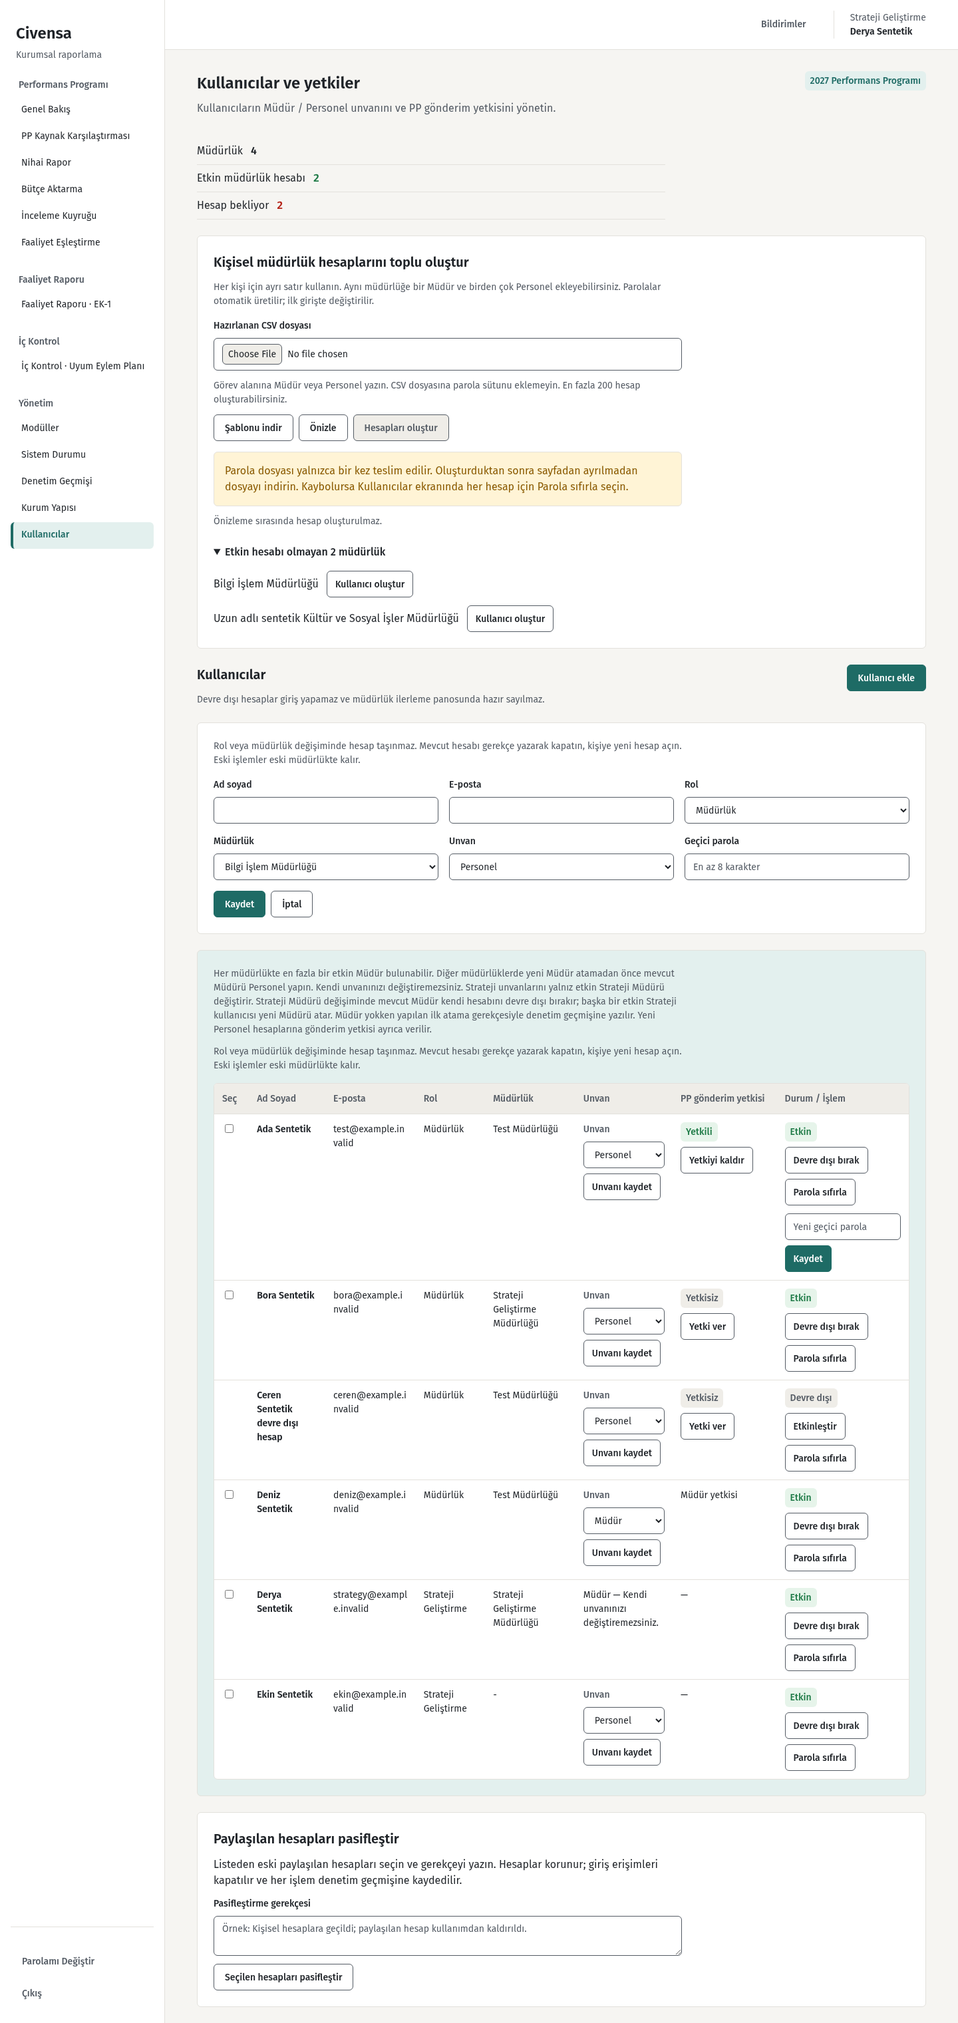
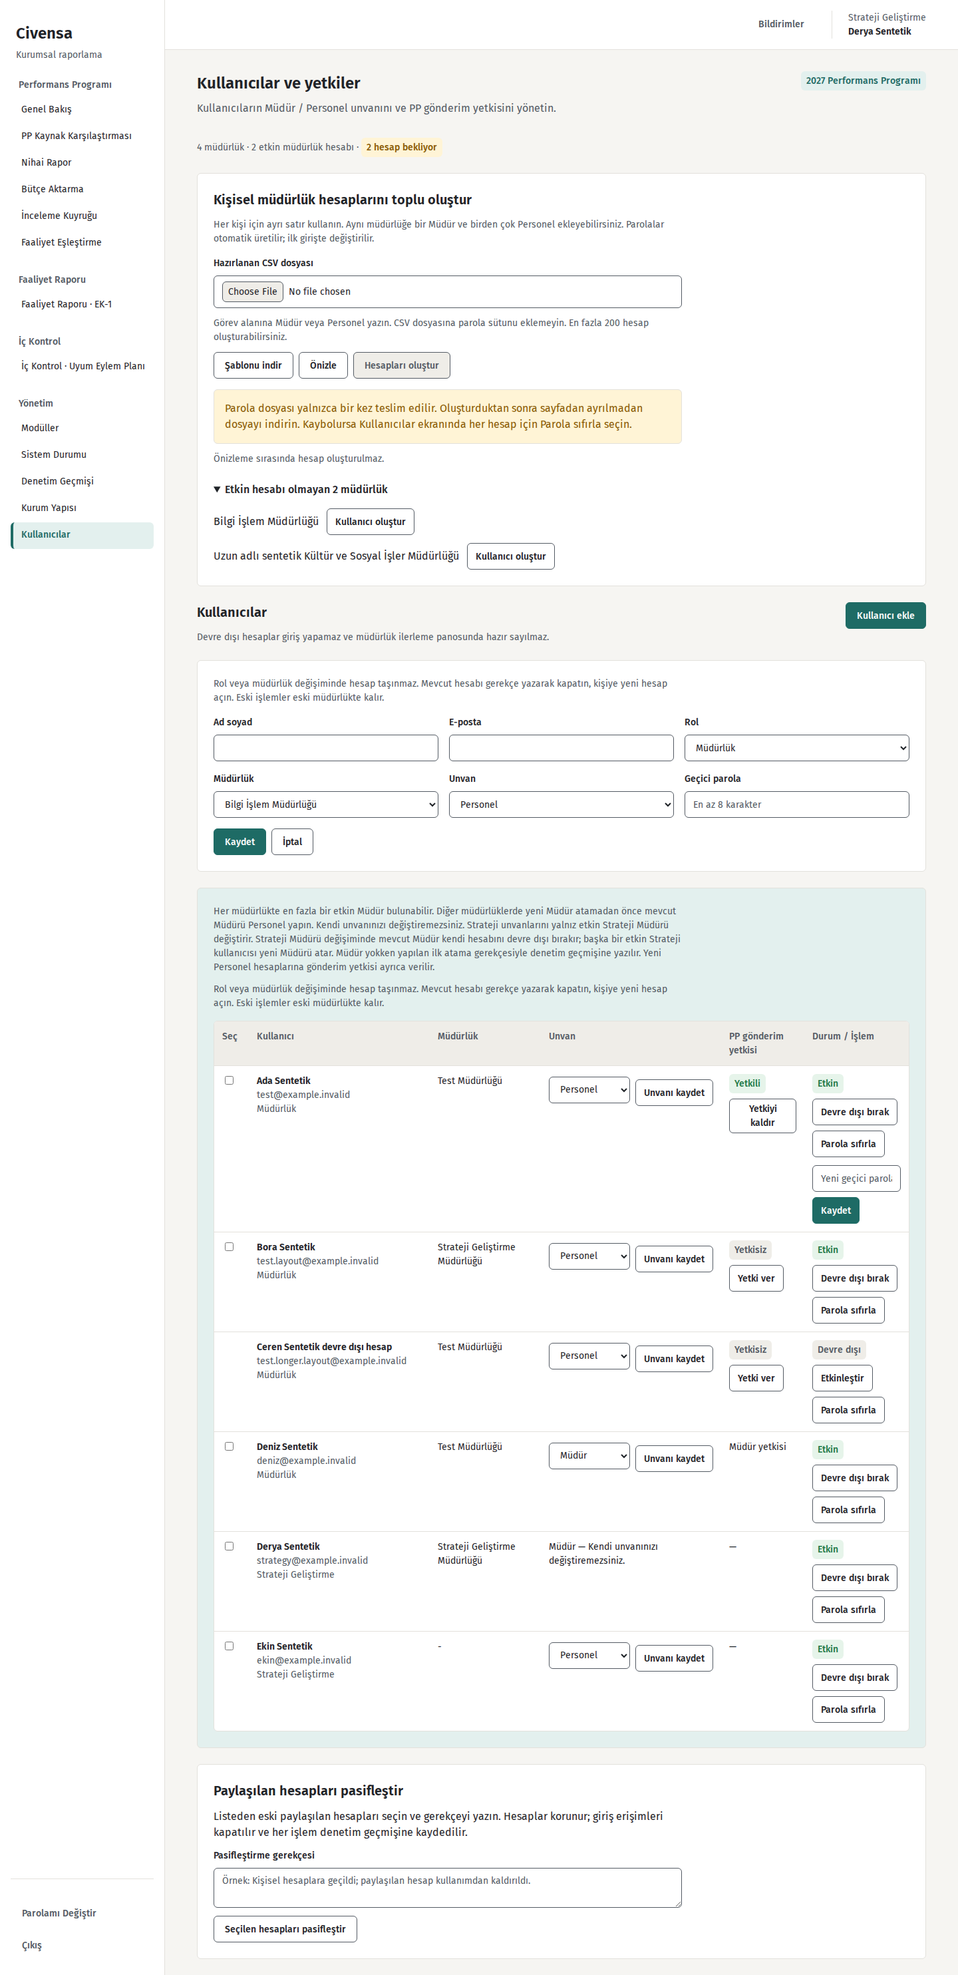
[WIP] Update users table to simplify columns (#205)
* Initial plan

* CIV-134 sadeleştirilmiş kullanıcı tablosu

* CIV-134 compact user account summary

* CIV-134 refresh user summary screenshots

* Run CI after ready for review (lead)

---------

diff --git a/app/static/design/users.css b/app/static/design/users.css
@@ -10,10 +10,7 @@
 .users-page .muted { color: var(--text-secondary); font-size: var(--text-sm); }
 .users-page .ok { color: var(--success) !important; }
 .users-page .bad { color: var(--danger) !important; }
-.users-page .users-summary { display: grid; grid-template-columns: minmax(0, 1fr); gap: 0; max-width: 44rem; }
-.users-page .users-summary .card { display: flex; align-items: baseline; gap: var(--space-3); padding: var(--space-2) 0; border: 0; border-bottom: 1px solid var(--border); border-radius: 0; background: transparent; box-shadow: none; }
-.users-page .users-summary :is(span, b) { margin: 0; color: var(--text); font-size: var(--text-base); }
-.users-page .users-summary b { font-variant-numeric: tabular-nums; }
+.users-page .users-summary { max-width: 44rem; margin: 0; }
 .users-page :is(.users-panel, .user-form) { min-width: 0; margin: 0; padding: var(--space-6); border: 1px solid var(--border); border-radius: var(--radius); background: var(--surface); box-shadow: none; }
 .users-page .info-panel { padding: var(--space-4); border: 1px solid var(--border); border-radius: var(--radius); background: var(--accent-soft); }
 .users-page .users-warning { margin-top: var(--space-4); color: var(--warning); background: var(--warning-bg); }
@@ -44,20 +41,24 @@
 .users-page .missing-departments b { font-size: var(--text-base); font-weight: var(--font-regular); }
 .users-page .table-wrap { width: 100%; max-width: 100%; overflow-x: auto; border: 1px solid var(--border); border-radius: var(--radius); background: var(--surface); }
 .users-page .users-table { margin-top: var(--space-4); }
-.users-page table { width: 100%; min-width: 1040px; margin: 0; border-collapse: collapse; table-layout: fixed; }
+.users-page table { width: 100%; min-width: 0; margin: 0; border-collapse: collapse; table-layout: fixed; }
 .users-page :is(th, td) { padding: var(--space-3); border-bottom: 1px solid var(--border); font-size: var(--text-sm); text-align: left; vertical-align: top; }
 .users-page th { color: var(--text-secondary); background: var(--surface-muted); font-weight: var(--font-medium); }
 .users-page .users-table th:nth-child(1) { width: 5%; }
-.users-page .users-table th:nth-child(2) { width: 11%; }
-.users-page .users-table th:nth-child(3) { width: 13%; }
-.users-page .users-table th:nth-child(4) { width: 10%; }
-.users-page .users-table th:nth-child(5) { width: 13%; }
-.users-page .users-table th:nth-child(6) { width: 14%; }
-.users-page .users-table th:nth-child(7) { width: 15%; }
-.users-page .users-table th:nth-child(8) { width: 19%; }
+.users-page .users-table th:nth-child(2) { width: 26%; }
+.users-page .users-table th:nth-child(3) { width: 16%; }
+.users-page .users-table th:nth-child(4) { width: 26%; }
+.users-page .users-table th:nth-child(5) { width: 12%; }
+.users-page .users-table th:nth-child(6) { width: 15%; }
+.users-page .user-identity :is(.user-email, .user-role) { display: block; }
+.users-page .user-email { overflow-wrap: break-word; }
+.users-page .user-position-controls { display: flex; align-items: center; flex-wrap: wrap; gap: var(--space-2); }
+.users-page .user-position-controls label { position: relative; flex: 1 1 7rem; }
+.users-page .user-position-controls .button { flex: 0 0 auto; }
 .users-page tbody tr:last-child td { border-bottom: 0; }
 .users-page .status { display: inline-block; padding: var(--space-1) var(--space-2); border-radius: var(--radius); color: var(--text-secondary); background: var(--surface-muted); font-size: var(--text-sm); font-weight: var(--font-medium); }
 .users-page .status.approved { color: var(--success); background: var(--success-bg); }
+.users-page .status.warning { color: var(--warning); background: var(--warning-bg); }
 .users-page :is(.status.returned, .status.draft) { color: var(--text-secondary); background: var(--surface-muted); }
 .users-page .rowbuttons { flex-direction: column; margin-top: var(--space-2); }
 .users-page :is(.save-user-position, .toggle-submit-authorization) { margin-top: var(--space-2); }
@@ -73,4 +74,7 @@
 }
 @media (max-width: 700px) {
   .users-page :is(.users-panel, .user-form) { padding: var(--space-4); }
+}
+@media (max-width: 1279px) {
+  .users-page table { min-width: 1000px; }
 }

diff --git a/app/templates/users.html b/app/templates/users.html
@@ -4,20 +4,7 @@
 {% block content %}
   <link rel="stylesheet" href="/static/design/users.css">
   <div class="users-page">
-    <div class="cards strategy-cards users-summary">
-      <div class="card">
-        <span>Müdürlük</span>
-        <b>{{ departments|length }}</b>
-      </div>
-      <div class="card">
-        <span>Etkin müdürlük hesabı</span>
-        <b class="ok">{{ department_account_count }}</b>
-      </div>
-      <div class="card">
-        <span>Hesap bekliyor</span>
-        <b class="{{ 'bad' if missing_departments else 'ok' }}">{{ missing_departments|length }}</b>
-      </div>
-    </div>
+    <p class="muted users-summary">{{ departments|length }} müdürlük · {{ department_account_count }} etkin müdürlük hesabı · {% if missing_departments %}<span class="status warning">{{ missing_departments|length }} hesap bekliyor</span>{% else %}{{ missing_departments|length }} hesap bekliyor{% endif %}</p>
     <section class="users-panel">
       <h2>Kişisel müdürlük hesaplarını toplu oluştur</h2>
       <p class="muted">Her kişi için ayrı satır kullanın. Aynı müdürlüğe bir Müdür ve birden çok Personel ekleyebilirsiniz. Parolalar otomatik üretilir; ilk girişte değiştirilir.</p>
@@ -99,9 +86,7 @@
           <thead>
             <tr>
               <th>Seç</th>
-              <th>Ad Soyad</th>
-              <th>E-posta</th>
-              <th>Rol</th>
+              <th>Kullanıcı</th>
               <th>Müdürlük</th>
               <th>Unvan</th>
               <th>PP gönderim yetkisi</th>
@@ -116,11 +101,11 @@
                     <input type="checkbox" class="retire-user" value="{{ u.id }}" aria-label="{{ u.full_name }} hesabını seç">
                   {% endif %}
                 </td>
-                <td>
+                <td class="user-identity">
                   <b>{{ u.full_name }}</b>
+                  <span class="user-email muted">{{ u.email }}</span>
+                  <span class="user-role muted">{{ 'Strateji Geliştirme' if u.role=='strategy' else 'Müdürlük' }}</span>
                 </td>
-                <td>{{ u.email }}</td>
-                <td>{{ 'Strateji Geliştirme' if u.role=='strategy' else 'Müdürlük' }}</td>
                 <td>
                   {% if u.department_id %}
                     {% for d in departments %}
@@ -136,14 +121,16 @@
                   {% if u.id == user.id %}
                     {{ 'Müdür' if u.position == 'director' else 'Personel' }} — Kendi unvanınızı değiştiremezsiniz.
                   {% else %}
-                    <label>
-                      <span class="muted">Unvan</span>
-                      <select class="user-position" aria-label="{{ u.full_name }} unvanı">
-                        <option value="staff" {{ 'selected' if u.position == 'staff' }}>Personel</option>
-                        <option value="director" {{ 'selected' if u.position == 'director' }}>Müdür</option>
-                      </select>
-                    </label>
-                    <button type="button" class="button small save-user-position" data-user="{{ u.id }}">Unvanı kaydet</button>
+                    <div class="user-position-controls">
+                      <label>
+                        <span class="sr-only">Unvan</span>
+                        <select class="user-position" aria-label="{{ u.full_name }} unvanı">
+                          <option value="staff" {{ 'selected' if u.position == 'staff' }}>Personel</option>
+                          <option value="director" {{ 'selected' if u.position == 'director' }}>Müdür</option>
+                        </select>
+                      </label>
+                      <button type="button" class="button small save-user-position" data-user="{{ u.id }}">Unvanı kaydet</button>
+                    </div>
                   {% endif %}
                 </td>
                 <td>

diff --git a/tests/test_users_design.py b/tests/test_users_design.py
@@ -4,6 +4,7 @@ from hashlib import sha256
 from html.parser import HTMLParser
 import os
 from pathlib import Path
+import re
 from urllib.parse import urlsplit
 
 import pytest
@@ -53,20 +54,28 @@ class Contract(HTMLParser):
         self.controls, self.hooks, self.headers, self.options = [], [], [], []
         self.words = Counter()
         self.capture = None
+        self.summary_depth = 0
+        self.summary_parts = []
+        self.summary = ''
         self.feed(html)
 
     def handle_starttag(self, tag, attrs):
         attrs = dict(attrs)
+        classes = set(attrs.get('class', '').split())
         if tag == 'main':
             self.main = True
         if not self.main:
             return
+        if self.summary_depth:
+            self.summary_depth += 1
+        elif 'users-summary' in classes or {'cards', 'strategy-cards'} <= classes:
+            self.summary_depth = 1
         if tag in {'input', 'select', 'option', 'textarea', 'button', 'a', 'form'}:
             values = {k: v for k, v in attrs.items() if k not in {'class', 'style'}}
             if values.get('name') == 'csrf_token':
                 values['value'] = '<csrf>'
             self.controls.append((tag, tuple(sorted(values.items()))))
-        classes = tuple(sorted(set(attrs.get('class', '').split()) & JS_CLASSES))
+        classes = tuple(sorted(classes & JS_CLASSES))
         data = tuple(sorted((k, v) for k, v in attrs.items() if k.startswith('data-')))
         if attrs.get('id') or classes or data:
             self.hooks.append((tag, attrs.get('id'), classes, data, 'hidden' in attrs))
@@ -78,10 +87,14 @@ class Contract(HTMLParser):
             return
         if self.capture is not None:
             self.capture[2] += data
+        if self.capture and self.capture[0] == 'th':
+            return
+        if self.summary_depth:
+            self.summary_parts.append(data)
+            return
         # Header copy is deliberately NOT sentence-cased.
         text = ' '.join(data.split())
-        if not (self.capture and self.capture[0] == 'th'):
-            text = TEXT_CHANGES.get(text, text)
+        text = TEXT_CHANGES.get(text, text)
         text = text.replace('Kullanıcılar ve Yetkiler', 'Kullanıcılar ve yetkiler')
         self.words.update(text.split())
 
@@ -91,8 +104,32 @@ class Contract(HTMLParser):
             value = (attrs, ' '.join(text.split()))
             (self.headers if kind == 'th' else self.options).append(value)
             self.capture = None
+        if self.summary_depth:
+            self.summary_depth -= 1
+            if not self.summary_depth:
+                self.summary = ' '.join(' '.join(self.summary_parts).split())
         if tag == 'main':
             self.main = False
+
+
+def normalized_summary(summary):
+    match = re.fullmatch(
+        r'Müdürlük (\d+) Etkin müdürlük hesabı (\d+) Hesap bekliyor (\d+)', summary)
+    if not match:
+        return summary
+    departments, accounts, missing = match.groups()
+    return (f'{departments} müdürlük · {accounts} etkin müdürlük hesabı · '
+            f'{missing} hesap bekliyor')
+
+
+def normalized_headers(headers):
+    combined = {'Ad Soyad', 'E-posta', 'Rol'}
+    result = [header for header in headers if header[1] not in combined]
+    index = next((i for i, header in enumerate(headers) if header[1] in combined), None)
+    if index is not None:
+        result.insert(sum(header[1] not in combined for header in headers[:index]),
+                      ((), 'Kullanıcı'))
+    return result
 
 
 @pytest.fixture
@@ -104,10 +141,10 @@ def users_data(db, sample, accounts):
                                'Uzun adlı sentetik Kültür ve Sosyal İşler Müdürlüğü']]
     db.add_all(missing)
     db.add_all([
-        User(email='bora@example.invalid', full_name='Bora Sentetik',
+        User(email='test.layout@example.invalid', full_name='Bora Sentetik',
              role='department', position='staff', can_submit=False,
              department_id=sample['strategy'].department_id, password_hash='unused'),
-        User(email='ceren@example.invalid', full_name='Ceren Sentetik devre dışı hesap',
+        User(email='test.longer.layout@example.invalid', full_name='Ceren Sentetik devre dışı hesap',
              role='department', position='staff', is_active=False, can_submit=False,
              department_id=sample['department'].id, password_hash='unused'),
         User(email='deniz@example.invalid', full_name='Deniz Sentetik',
@@ -136,7 +173,8 @@ def test_frozen_controls_hooks_copy_options_and_headers(accounts, users_data, db
     assert Counter(actual.controls) == Counter(expected.controls)
     assert Counter(actual.hooks) == Counter(expected.hooks)
     assert actual.options == expected.options
-    assert actual.headers == expected.headers
+    assert actual.headers == normalized_headers(expected.headers)
+    assert actual.summary == normalized_summary(expected.summary)
     assert actual.words == expected.words
     assert JS_IDS <= {item[1] for item in actual.hooks}
     assert JS_CLASSES - ({'create-department-user'} if not missing else set()) <= {
@@ -160,6 +198,7 @@ def test_browser_layout_contrast_and_existing_controls(browser, accounts, users_
             department.is_active = False
         db.commit()
     client = accounts[0]()
+    summary_context = client.get('/users').context
     errors, writes = [], []
     with browser.new_context(viewport={'width': width, 'height': 1000},
                              locale='tr-TR', timezone_id='Europe/Istanbul') as context:
@@ -199,10 +238,19 @@ def test_browser_layout_contrast_and_existing_controls(browser, accounts, users_
         if phase == 'after':
             root = page.locator('.users-page')
             assert page.evaluate('document.documentElement.scrollWidth === innerWidth')
+            expect(page.locator('.users-table th')).to_have_count(6)
             assert root.locator('*').evaluate_all("els => els.every(el => getComputedStyle(el).textTransform !== 'uppercase')")
-            assert root.locator('.users-summary').evaluate('el => el.getBoundingClientRect().width <= 704')
-            for item in root.locator('.users-summary .card').all():
-                assert item.evaluate('el => Math.abs(el.firstElementChild.getBoundingClientRect().y - el.lastElementChild.getBoundingClientRect().y) < 3')
+            summary = root.locator('.users-summary')
+            assert summary.evaluate('el => el.getBoundingClientRect().width <= 704')
+            expect(summary).to_have_text(
+                f'{len(summary_context["departments"])} müdürlük · '
+                f'{summary_context["department_account_count"]} etkin müdürlük hesabı · '
+                f'{len(summary_context["missing_departments"])} hesap bekliyor')
+            expect(summary.locator('.status.warning')).to_have_count(
+                1 if summary_context['missing_departments'] else 0)
+            if summary_context['missing_departments']:
+                expect(summary.locator('.status.warning')).to_have_text(
+                    f'{len(summary_context["missing_departments"])} hesap bekliyor')
             if missing:
                 assert root.locator('.missing-departments').evaluate('el => el.getBoundingClientRect().width <= 704')
             columns = page.locator('#newUserForm').evaluate('el => getComputedStyle(el).gridTemplateColumns.split(" ").length')
@@ -221,6 +269,25 @@ def test_browser_layout_contrast_and_existing_controls(browser, accounts, users_
                 wrap.focus()
                 page.keyboard.press('ArrowRight')
                 assert wrap.evaluate('el => el.scrollLeft > 0')
+            else:
+                assert wrap.evaluate('el => el.scrollWidth === el.clientWidth')
+                assert root.locator('.user-email').evaluate_all(
+                    """els => els.every(el => {
+                      const range = document.createRange();
+                      range.selectNodeContents(el);
+                      return getComputedStyle(el).overflowWrap === 'break-word' &&
+                        new Set([...range.getClientRects()].map(rect => Math.round(rect.top))).size === 1;
+                    })""")
+                position_select = page.get_by_role('combobox', name='Bora Sentetik unvanı')
+                expect(position_select).to_have_count(1)
+                assert position_select.locator('xpath=..').locator('.sr-only').evaluate(
+                    "el => getComputedStyle(el).clip === 'rect(0px, 0px, 0px, 0px)'")
+                position_controls = position_select.locator('xpath=../..')
+                assert position_controls.evaluate("""el => {
+                  const select = el.querySelector('select').getBoundingClientRect();
+                  const button = el.querySelector('button').getBoundingClientRect();
+                  return select.top < button.bottom && button.top < select.bottom;
+                }""")
             script = TEXT_PAIRS.replace('.section-index-page', '.users-page')
             pairs = set(map(tuple, page.evaluate(script)))
             selectors = ['#newUserBtn', '#previewBulkUsers', '#userName', '#userRole',

diff --git a/docs/design/rollout/civ-130/README.md b/docs/design/rollout/civ-130/README.md
@@ -1,15 +1,15 @@
 # CIV-130 · Kullanıcılar tasarım sistemine
 
-`/users` (047, strateji) sayfası mevcut panel, alan, tablo, rozet ve düğme desenlerine taşındı. Sayfaya özel `users.css`, yalnız `tokens.css` değişkenlerini kullanır. Üç sayı kartı 44rem sınırında etiket/sayı satırlarıdır. Eksik müdürlükler adın yanında oluşturma düğmesi bulunan düz listedir. Form 1024px ve üzerinde üç, mobilde tek sütundur. Parola teslim uyarısı uyarı panelidir; iki hesap politikası paragrafı tabloyla aynı bilgi panelindedir. Böylece mevcut `accountChangePolicy + .table-wrap` sözleşmesi de korunur. Etkin hesap yeşil, devre dışı hesap nötr metin rozetidir; işlemler rozetin altındadır.
+`/users` (047, strateji) sayfası mevcut panel, alan, tablo, rozet ve düğme desenlerine taşındı. Sayfaya özel `users.css`, yalnız `tokens.css` değişkenlerini kullanır. Müdürlük, etkin hesap ve bekleyen hesap sayıları sayfa başlığının altında tek ikincil metin satırıdır; bekleyen sayı sıfırdan büyükse uyarı metin rozeti, sıfırsa düz metindir. Eksik müdürlükler adın yanında oluşturma düğmesi bulunan düz listedir. Form 1024px ve üzerinde üç, mobilde tek sütundur. Parola teslim uyarısı uyarı panelidir; iki hesap politikası paragrafı tabloyla aynı bilgi panelindedir. Böylece mevcut `accountChangePolicy + .table-wrap` sözleşmesi de korunur. Etkin hesap yeşil, devre dışı hesap nötr metin rozetidir; işlemler rozetin altındadır.
 
 ## Görüntüler
 
-27 Ekim 2026; yerel Chromium 151.0.7922.173, tr-TR, Europe/Istanbul, açık tema, 1×; geçici yerel PostgreSQL 18 ve yalnız sentetik kişiler/müdürlükler. Başlangıç görüntüleri dondurulmuş başlangıç şablonunun aynı gerçek rota bağlamıyla render edilmesidir. Her görüntü tam sayfadır; eksik müdürlükler, yeni kullanıcı formu ve Ada Sentetik satırının parola sıfırlama alanı açıktır. Parola alanları boştur. Mobil ek görüntüler tablonun sağ tarafını gösterir. Her PNG 1.500.000 baytın altındadır.
+27 Ekim 2026; yerel Chromium 151.0.7922.34, tr-TR, Europe/Istanbul, açık tema, 1×; geçici yerel PostgreSQL 18 ve yalnız sentetik kişiler/müdürlükler. Başlangıç görüntüleri dondurulmuş başlangıç şablonunun aynı gerçek rota bağlamıyla render edilmesidir. Her görüntü tam sayfadır; eksik müdürlükler, yeni kullanıcı formu ve Ada Sentetik satırının parola sıfırlama alanı açıktır. Parola alanları boştur. Mobil ek görüntüler tablonun sağ tarafını gösterir. Her PNG 1.500.000 baytın altındadır.
 
-| Genişlik | Önce | Sonra |
+| Görünüm | CIV-130 öncesi | CIV-134 sonrası |
 | --- | --- | --- |
-| 1440px | [Tam sayfa](users-before-1440.png) | [Tam sayfa](users-after-1440.png) |
-| 390px | [Tam sayfa](users-before-390.png) | [Tam sayfa](users-after-390.png) |
+| 1440px, altı sütun ve iç kaydırma yok | [Tam sayfa](users-before-1440.png) | [Tam sayfa](users-after-1440.png) |
+| 390px, iç tablo kaydırma | [Tam sayfa](users-before-390.png) | [Tam sayfa](users-after-390.png) |
 | 390px, durum/işlem sütunları | [Tam sayfa](users-before-status-390.png) | [Tam sayfa](users-after-status-390.png) |
 
 ## Görünür metin değişiklikleri
@@ -18,8 +18,10 @@
 - Ekleme düğmesi: `Kullanıcı Ekle` → `Kullanıcı ekle`.
 - Yeni kullanıcı formu alanı: `Ad Soyad` → `Ad soyad`.
 - Yeni kullanıcı formu alanı: `Geçici Parola` → `Geçici parola`.
+- Tablo başlıkları: `Ad Soyad`, `E-posta`, `Rol` → `Kullanıcı`; ilgili hücrelerde ad, e-posta ve rol üç satırda gösterilir.
+- Özet: üç ayrı sayı kartı → `4 müdürlük · 2 etkin müdürlük hesabı · 2 hesap bekliyor` biçiminde tek ikincil metin satırı; bekleyen hesap varsa metin uyarı rozeti.
 
-Tablo başlıkları ve CSV başlıkları aynen korunur. Mevcut testte yalnız ekleme düğmesinin metni bire bir güncellendi; hiçbir assertion gevşetilmedi.
+CSV başlıkları aynen korunur. Tablo, 1280px ve üzerinde panel genişliğine sığar; daha dar ekranlarda iç yatay kaydırma korunur.
 
 ## Doğrulama
 
